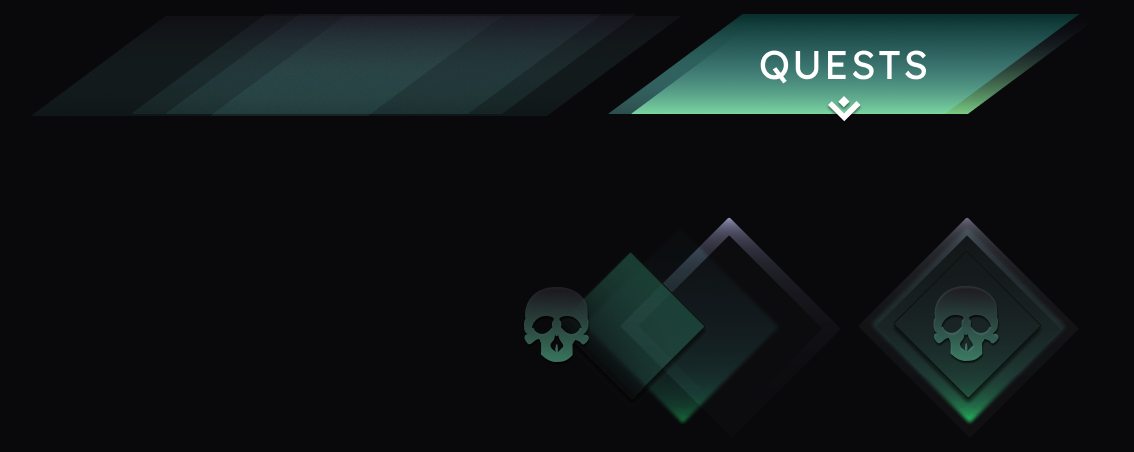
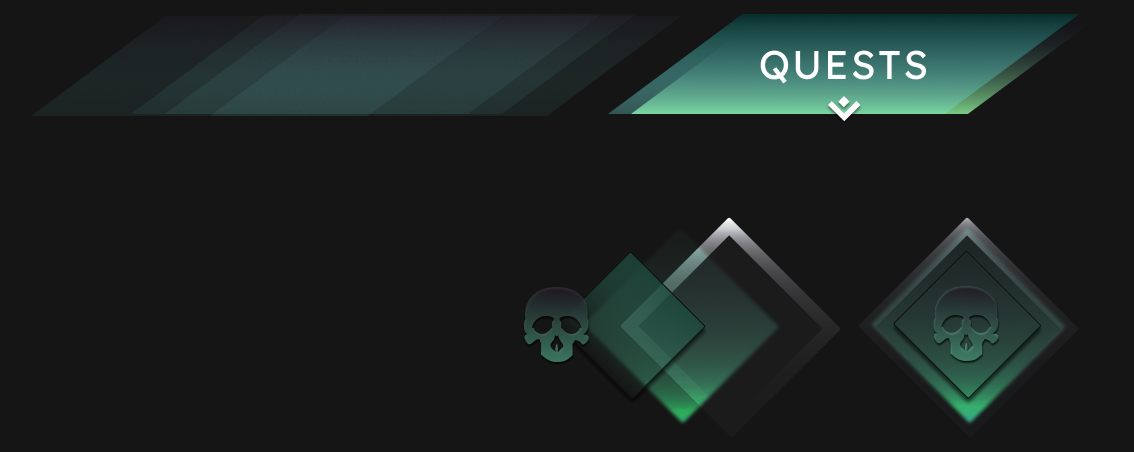
some fixes

diff --git a/spacer.css b/spacer.css
@@ -1,0 +1,143 @@
+body {
+    background-color: white;
+    font-family: 'Prompt', sans-serif;
+    display: flex;
+    flex-direction: column;
+    align-items: center;
+}
+
+header {
+    background-color: #ffffff;
+    display: flex;
+    justify-content: start;
+    padding: 16px;
+}
+
+header a {
+    padding: 16px;
+    text-decoration: none;
+    color: rgb(0, 0, 0);
+}
+
+a {
+    all: unset;
+    cursor: pointer;
+}
+
+main {
+    display: flex;
+    flex-direction: column;
+    justify-content: center;
+    align-items: center;
+    background-color:  rgb(241, 241, 255);
+    min-width: 400px;
+    max-width: 1100px;
+}
+
+.footer-style {
+    padding: 24px;
+}
+
+/* Text Boxes */
+
+.textbox {
+    display: flex;
+    flex-direction: column;
+    width: 50%;
+    align-self: flex-start;
+    margin-bottom: 24px;
+    padding: 40px;
+}
+
+
+/* FONTS */
+
+h2 {
+    font-size: 40px;
+    font-family: Poppins;
+    font-weight: 700;
+    margin-bottom: 16px;
+    margin-top: 32px;
+
+}
+
+h4 {
+    font-size: 24px;
+    font-family: Poppins;
+    font-weight: 700;
+    margin-bottom: 16px;
+    margin-top: 32px;
+
+}
+
+
+
+p1 {
+    font-size: 32px;
+    font-family: Poppins;
+    font-weight: 700;
+    margin-bottom: 10px;
+}
+
+p2 {
+    font-size: 16px;
+    font-family: Poppins;
+    font-weight: 400;
+    margin: 0;
+    margin-bottom: 10px;
+}
+
+
+/* IMAGES */
+
+img.image {
+    object-fit: cover;
+    display: flex;
+    width: 100%;
+}
+
+img.image-baner {
+    width: 50%;
+    display: flex;
+    align-self: flex-start;
+    padding: 40px;
+    margin-top: 24px;
+    
+}
+
+img.image-opendyslecxic {
+    width: 70%;
+    display: flex;
+    align-self: center;
+    padding: 4px;
+}
+
+
+img.image-main {
+    width: 95%;
+    display: flex;
+    align-self: center;
+    padding: 4px;
+}
+
+
+
+@media (max-width: 600px) {
+
+    .textbox {
+        width: 80% !important;
+    }
+
+    img.baner {
+        width: 80% !important;
+    }
+
+    img.main {
+        width: 95% !important;
+    }
+
+    img.image-opendyslecxic {
+        width: 90% !important;
+    }
+
+}

diff --git a/spacer.html b/spacer.html
@@ -2,7 +2,7 @@
 <html>
 <head>
     <title>MorH Portfolio</title>
-    <link rel="stylesheet" href="home.css">
+    <link rel="stylesheet" href="spacer.css">
     <link rel="stylesheet" href="button-animation.css">
 
     <!-- Fonts -->
@@ -26,6 +26,28 @@
     </header>
 
     <main>
+
+        <img class="image-baner" src="/IMAGES/img60.png" />
+
+        <div class="textbox">
+            <h4>A mix of things.</h4>
+            <p2>
+                In this concept I bring together a tangram puzzle and a journal haven. 
+                The idea is to explore space and it’s constellations, each constellation is 1 Puzzle,
+                and 1 Day in the game. There are stories for each puzzle,
+                 reading them is optional, and so is the journal.  
+            </p2>
+        </div>
+
+        
+
+        <div class="textbox">
+            <h4>Using a typeface for Dyslexia</h4>
+            <p2>”OpenDyslexic” typeface, do you find it easier to read?
+            </p2><br>
+        </div>
+
+        <img class="image" src="/IMAGES/img59.png" />
 
     </main>
 

diff --git a/quests.css b/quests.css
@@ -29,7 +29,7 @@ main {
     flex-direction: column;
     justify-content: center;
     align-items: center;
-    background-color: #09090B;
+    background-color: #151515;
     min-width: 400px;
     max-width: 1100px;
 }
@@ -130,7 +130,7 @@ img.image {
 }
 
 img.image-final {
-    width: 90%;
+    width: 80%;
     display: flex;
     align-self: center;
     padding: 4px;
@@ -140,7 +140,7 @@ img.image-final {
 
 .bigcontainer {
     display: flex;
-    height: 500px;
+    height: 550px;
     width:90%;
     overflow: hidden;
     margin: 16px;
@@ -156,7 +156,6 @@ img.image-final {
 
 .bigcontainer img {
     display: flex;
-    height: 100%;
     width: 100%;
     padding: 8px;
 }

diff --git a/match3.html b/match3.html
@@ -27,7 +27,6 @@
 
     <main>
 
-
         <div class="textbox">
             <h4>A match 3 puzzle.</h4>
             <p2>
@@ -49,10 +48,6 @@
         <img class="image-main" src="/IMAGES/img19.png" />
 
         <img class="image" src="/IMAGES/img55.png" />
-
-
-
-
 
     </main>
 
